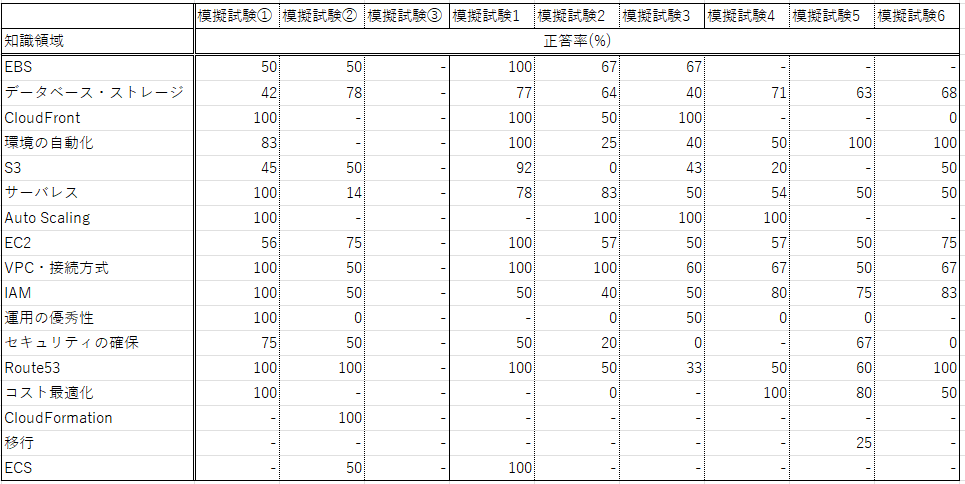
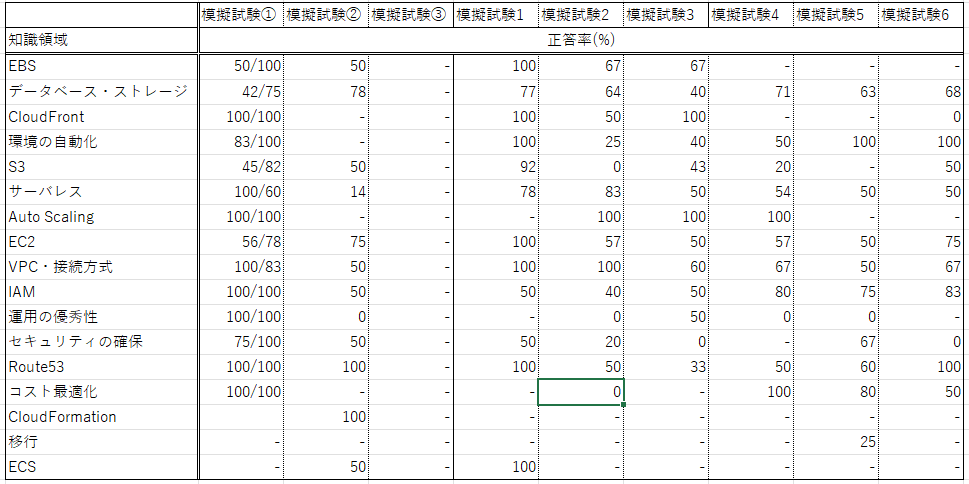
模擬試験①2回目結果

Changed region(s): [[0.0, 0.0, 1.0, 1.0]]

diff --git a/模擬試験結果.md b/模擬試験結果.md
@@ -4,6 +4,7 @@
 | 模擬試験番号 | 正解数 | 正答率 | 
 | - | - | - |
 | 1 | 45/65 | 69% |
+| 1 | 55/65 | 84% |
 | 2 | 36/65 | 55% |
 | 3 | 43/65 | 66% |
 
